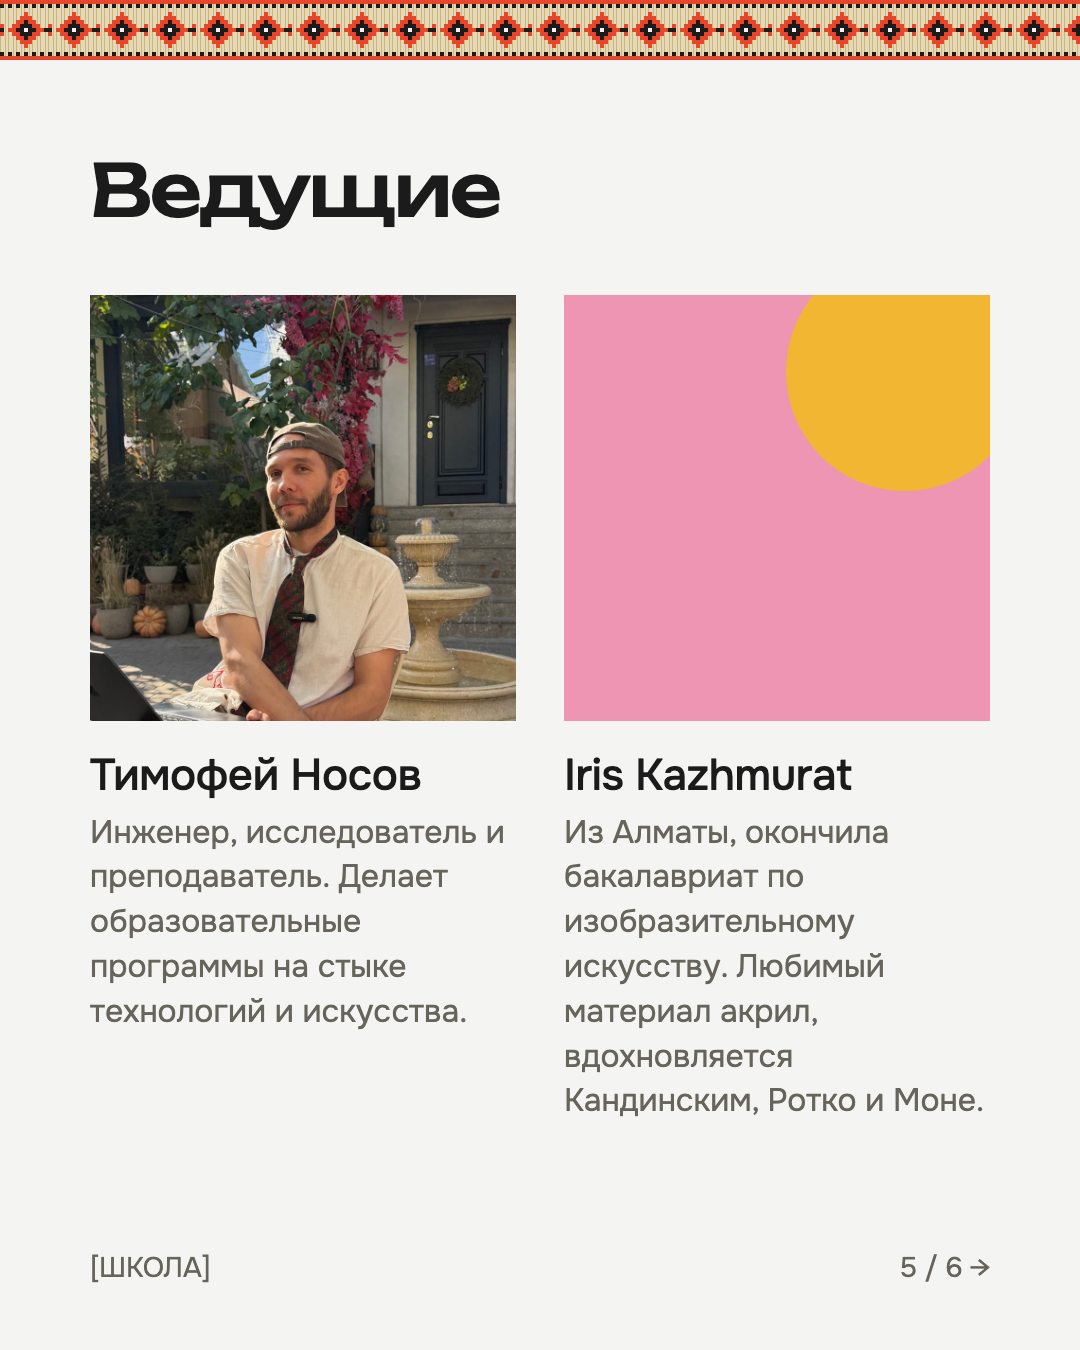
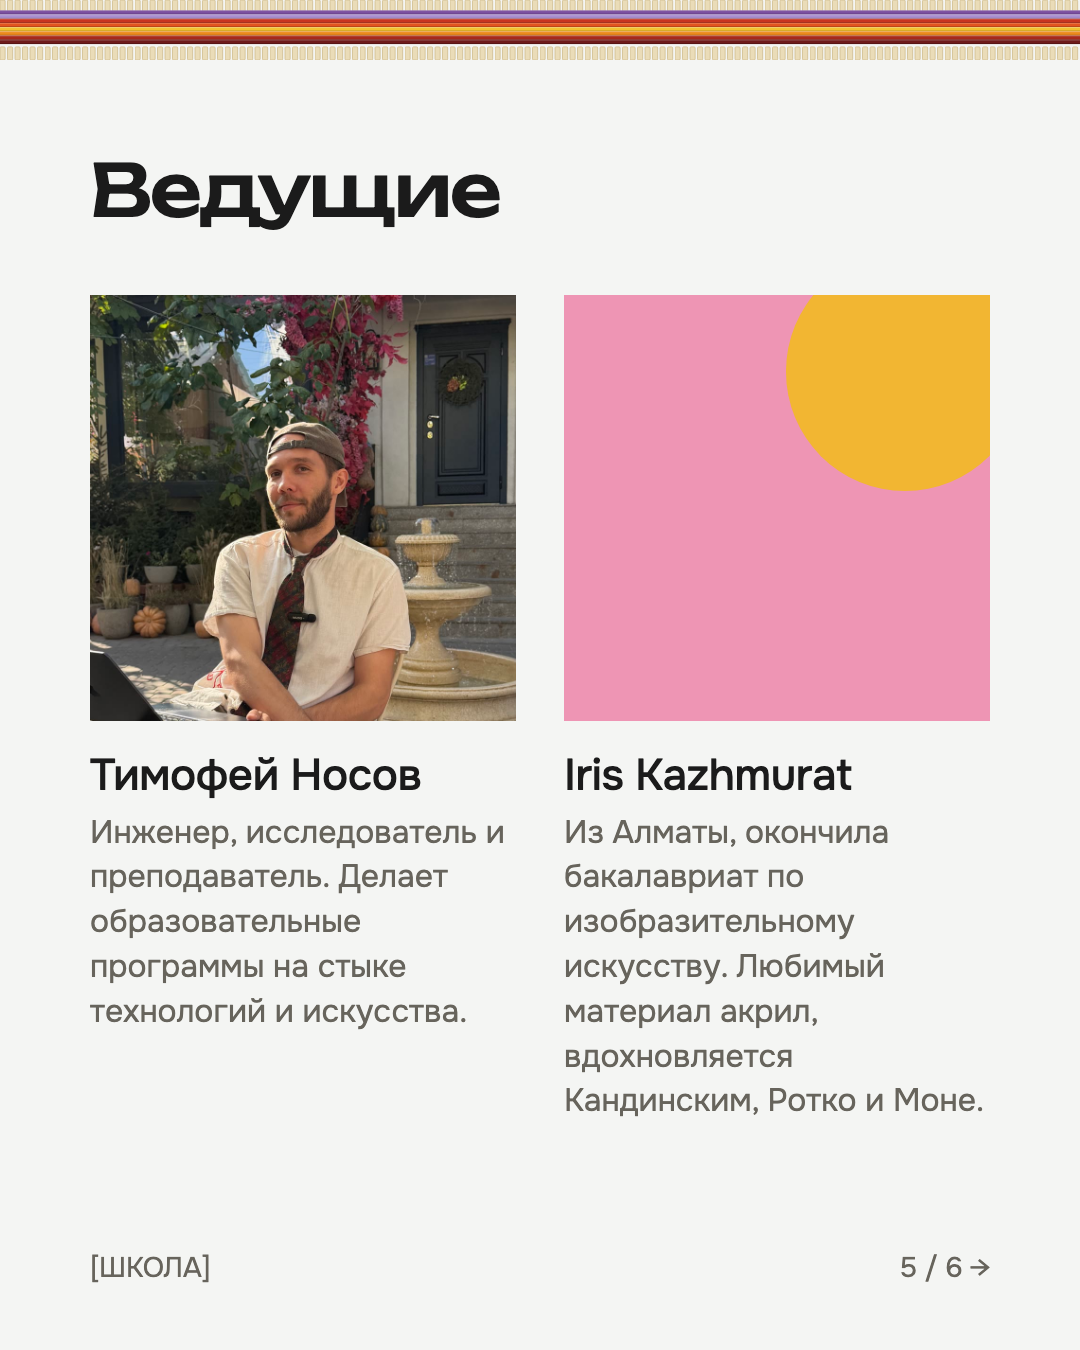
Replace stepped ornament with woven wrapped-reed style (panel + band) on site and carousel

Changed region(s): [[0.0, 0.0, 1.0, 0.0622]]

diff --git a/creative-engineering-quiet-ru.html b/creative-engineering-quiet-ru.html
@@ -30,13 +30,13 @@
   .hero { display: grid; grid-template-columns: 1.4fr 1fr; gap: 48px; align-items: center; min-height: 74vh; padding: 40px 0 64px; }
   h1 { font-family: 'Unbounded', 'Onest', sans-serif; font-weight: 500; font-size: clamp(28px, 4.2vw, 56px); line-height: 1.15; letter-spacing: -.025em; margin: 0 0 28px; text-wrap: balance; }
   .hero p { margin: 0; max-width: 24em; font-size: 20px; }
-  .art svg { width: 100%; height: auto; max-height: 70vh; }
+  .art img { width: 100%; height: auto; display: block; }
   .sway { transform-box: fill-box; transform-origin: 50% 0%; animation: sway 8s ease-in-out infinite; }
   .sway.b { animation-duration: 10s; animation-delay: -4s; }
   @keyframes sway { 0%,100% { transform: rotate(-2.5deg); } 50% { transform: rotate(2.5deg); } }
   @media (prefers-reduced-motion: reduce) { .sway { animation: none; } html { scroll-behavior: auto; } }
 
-  .chiy { height: 60px; margin-top: 8px; background: url('img/chiy-tile.svg') repeat-x left center; background-size: auto 100%; }
+  .chiy { height: 64px; margin-top: 8px; background: url('img/weave-band.svg') repeat-x left center; background-size: auto 100%; }
   section { border-top: 1px solid var(--ink); padding: 20px 0 0; margin-top: 88px; display: grid; grid-template-columns: 1fr 2fr; gap: var(--g); }
   h2 { font-family: 'Onest', sans-serif; font-weight: 500; font-size: 15px; margin: 4px 0 0; color: var(--gray); }
   .weeks { margin: 0; padding: 0; list-style: none; }
@@ -86,16 +86,7 @@
     <h1>Креативная инженерия</h1>
     <p>Онлайн-курс для подростков <span style="white-space:nowrap">14–19 лет</span>. Пять недель, пять тем и свой проект в конце.</p>
   </div>
-  <div class="art" aria-hidden="true">
-    <svg viewBox="0 0 300 290" xmlns="http://www.w3.org/2000/svg">
-      <line x1="30" y1="26" x2="270" y2="26" stroke="#1b1b1b" stroke-width="1.6"/>
-      <line x1="150" y1="26" x2="150" y2="6" stroke="#1b1b1b" stroke-width="1.2"/>
-      <g class="sway"><line x1="60" y1="26" x2="60" y2="130" stroke="#1b1b1b"/><circle cx="60" cy="146" r="16" fill="#e8452a"/></g>
-      <g class="sway b"><line x1="130" y1="26" x2="130" y2="210" stroke="#1b1b1b"/><circle cx="130" cy="236" r="26" fill="#fff" stroke="#1b1b1b" stroke-width="1.4"/></g>
-      <g class="sway"><line x1="200" y1="26" x2="200" y2="96" stroke="#1b1b1b"/><path d="M200 96 l-16 28 h32 z" fill="#2c4fb8"/></g>
-      <g class="sway b"><line x1="246" y1="26" x2="246" y2="170" stroke="#1b1b1b"/><circle cx="246" cy="184" r="14" fill="#f2b632"/></g>
-    </svg>
-  </div>
+  <div class="art" aria-hidden="true"><img src="img/weave-panel.svg" alt="" width="900" height="900"></div>
 </header>
 
 <div class="chiy" role="presentation"></div>

diff --git a/carousel/index.html b/carousel/index.html
@@ -12,7 +12,7 @@
   body { margin: 0; background: #ccc; font-family: 'Onest', Arial, sans-serif; color: var(--ink); }
   .slide { position: relative; width: 1080px; height: 1350px; background: var(--paper); padding: 150px 90px 96px; overflow: hidden; display: flex; flex-direction: column; margin: 0 auto 24px; }
   .solo .slide { margin: 0; }
-  .slide::before { content: ''; position: absolute; left: 0; right: 0; top: 0; height: 60px; background: url('../img/chiy-tile.svg') repeat-x left center; background-size: auto 100%; }
+  .slide::before { content: ''; position: absolute; left: 0; right: 0; top: 0; height: 60px; background: url('../img/weave-band.svg') repeat-x left center; background-size: auto 100%; }
   h1, h2 { font-family: 'Unbounded', 'Onest', sans-serif; font-weight: 500; margin: 0; letter-spacing: -.03em; line-height: 1.12; text-wrap: balance; }
   h1 { font-size: 104px; }
   h2 { font-size: 72px; }
@@ -24,7 +24,7 @@
   /* 1 cover */
   .cover h1 { margin-top: 24px; }
   .cover .lead { margin-top: 36px; max-width: 760px; }
-  .cover svg { position: absolute; right: 70px; bottom: 150px; width: 520px; height: auto; }
+  .cover .art { position: absolute; right: 90px; bottom: 140px; width: 560px; height: auto; }
 
   /* 3 weeks */
   .weeks { list-style: none; padding: 0; margin: 64px 0 0; }
@@ -61,14 +61,7 @@
 <section class="slide cover" data-n="1">
   <h1>Креативная инженерия</h1>
   <p class="lead">Онлайн-курс для подростков <span style="white-space:nowrap">14–19 лет</span>. Пять недель, пять тем и свой проект в&nbsp;конце.</p>
-  <svg viewBox="0 0 300 300" aria-hidden="true">
-    <line x1="30" y1="26" x2="270" y2="26" stroke="#1b1b1b" stroke-width="1.6"/>
-    <line x1="150" y1="26" x2="150" y2="6" stroke="#1b1b1b" stroke-width="1.2"/>
-    <line x1="60" y1="26" x2="60" y2="130" stroke="#1b1b1b"/><circle cx="60" cy="146" r="16" fill="#e8452a"/>
-    <line x1="130" y1="26" x2="130" y2="210" stroke="#1b1b1b"/><circle cx="130" cy="236" r="26" fill="#fff" stroke="#1b1b1b" stroke-width="1.4"/>
-    <line x1="200" y1="26" x2="200" y2="96" stroke="#1b1b1b"/><path d="M200 96 l-16 28 h32 z" fill="#2c4fb8"/>
-    <line x1="246" y1="26" x2="246" y2="170" stroke="#1b1b1b"/><circle cx="246" cy="184" r="14" fill="#f2b632"/>
-  </svg>
+  <img class="art" src="../img/weave-panel.svg" alt="" aria-hidden="true">
   <div class="foot"><span>[ШКОЛА]</span><span>1 / 6 →</span></div>
 </section>
 
